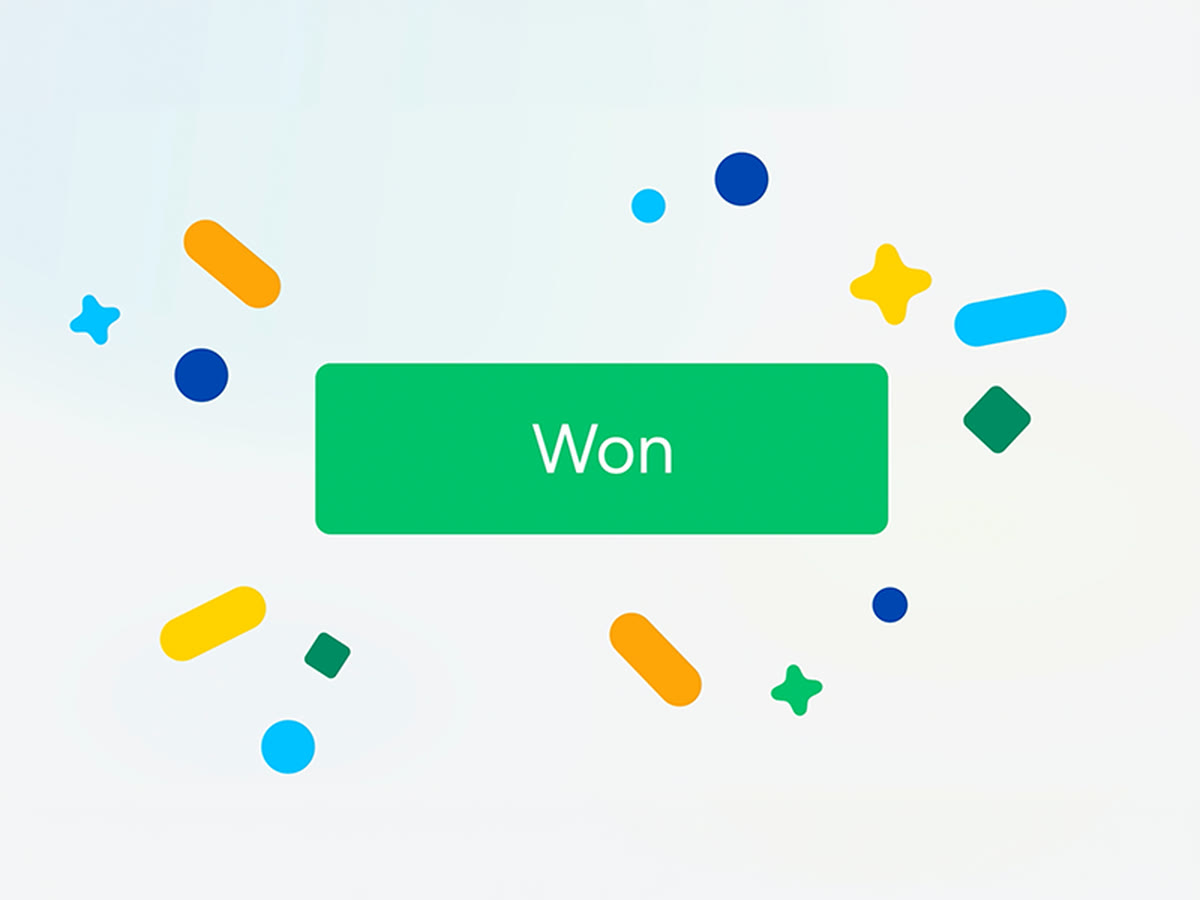
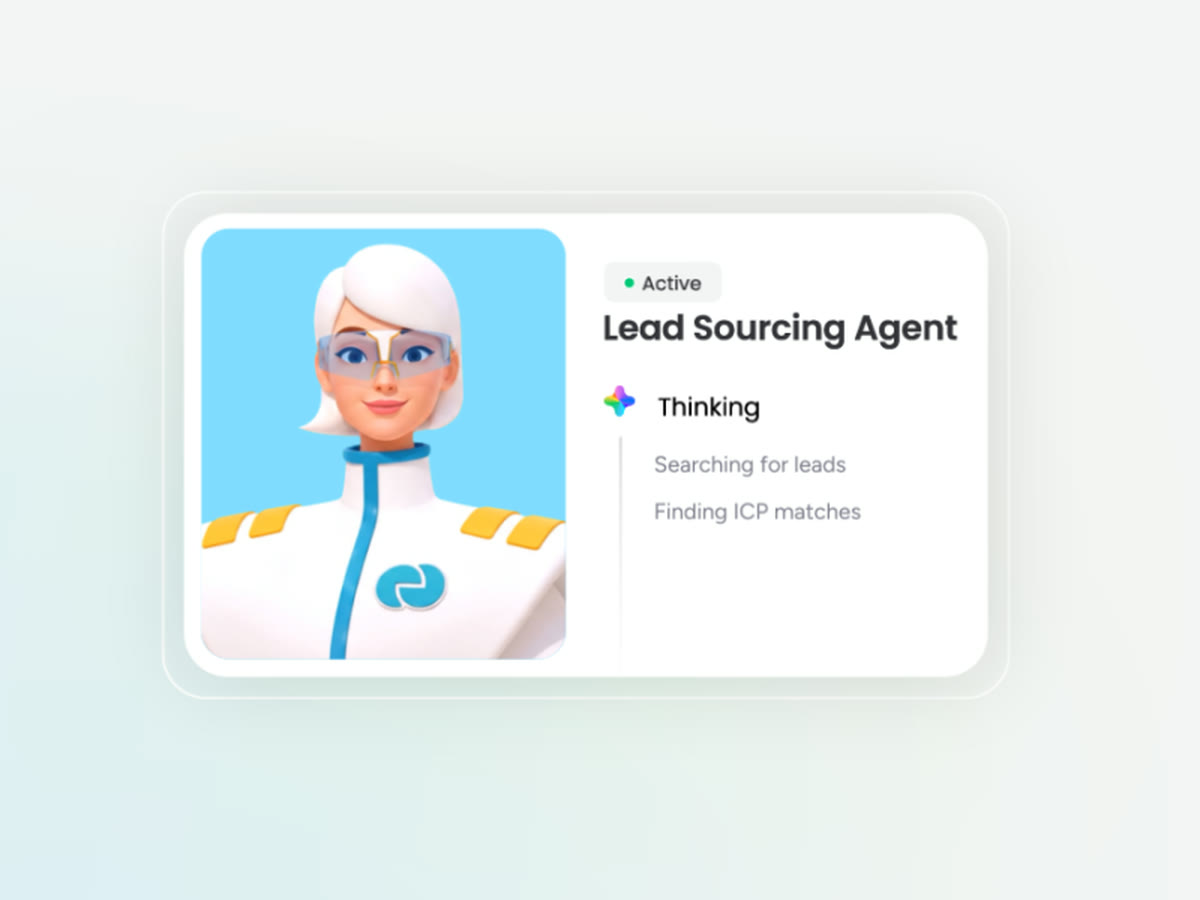
Tiles: CRM Agents ← Lead Sourcing Agent card; CRM demo ← monday CRM portraits

diff --git a/contact.html b/contact.html
@@ -9,7 +9,7 @@
   <link rel="preconnect" href="https://fonts.googleapis.com">
   <link rel="preconnect" href="https://fonts.gstatic.com" crossorigin>
   <link href="https://fonts.googleapis.com/css2?family=Source+Serif+4:ital,opsz,wght@0,8..60,300..700;1,8..60,300..700&family=DM+Mono:ital,wght@0,400;0,500;1,400&display=swap" rel="stylesheet">
-  <link rel="stylesheet" href="css/style.css?v=20260923113753">
+  <link rel="stylesheet" href="css/style.css?v=20260923114634">
 </head>
 <body data-page="contact">
 
@@ -59,8 +59,8 @@
 
   <footer class="wrap site-footer" id="site-footer"></footer>
 
-  <script src="js/projects.js?v=20260923113753"></script>
-  <script src="js/main.js?v=20260923113753"></script>
-  <script src="js/fx.js?v=20260923113753"></script>
+  <script src="js/projects.js?v=20260923114634"></script>
+  <script src="js/main.js?v=20260923114634"></script>
+  <script src="js/fx.js?v=20260923114634"></script>
 </body>
 </html>

diff --git a/project.html b/project.html
@@ -8,7 +8,7 @@
   <link rel="preconnect" href="https://fonts.googleapis.com">
   <link rel="preconnect" href="https://fonts.gstatic.com" crossorigin>
   <link href="https://fonts.googleapis.com/css2?family=Source+Serif+4:ital,opsz,wght@0,8..60,300..700;1,8..60,300..700&family=DM+Mono:ital,wght@0,400;0,500;1,400&display=swap" rel="stylesheet">
-  <link rel="stylesheet" href="css/style.css?v=20260923113753">
+  <link rel="stylesheet" href="css/style.css?v=20260923114634">
 </head>
 <body data-page="project">
 
@@ -18,8 +18,8 @@
 
   <footer class="wrap site-footer" id="site-footer"></footer>
 
-  <script src="js/projects.js?v=20260923113753"></script>
-  <script src="js/main.js?v=20260923113753"></script>
-  <script src="js/fx.js?v=20260923113753"></script>
+  <script src="js/projects.js?v=20260923114634"></script>
+  <script src="js/main.js?v=20260923114634"></script>
+  <script src="js/fx.js?v=20260923114634"></script>
 </body>
 </html>

diff --git a/about.html b/about.html
@@ -9,7 +9,7 @@
   <link rel="preconnect" href="https://fonts.googleapis.com">
   <link rel="preconnect" href="https://fonts.gstatic.com" crossorigin>
   <link href="https://fonts.googleapis.com/css2?family=Source+Serif+4:ital,opsz,wght@0,8..60,300..700;1,8..60,300..700&family=DM+Mono:ital,wght@0,400;0,500;1,400&display=swap" rel="stylesheet">
-  <link rel="stylesheet" href="css/style.css?v=20260923113753">
+  <link rel="stylesheet" href="css/style.css?v=20260923114634">
 </head>
 <body data-page="about">
 
@@ -38,8 +38,8 @@
 
   <footer class="wrap site-footer" id="site-footer"></footer>
 
-  <script src="js/projects.js?v=20260923113753"></script>
-  <script src="js/main.js?v=20260923113753"></script>
-  <script src="js/fx.js?v=20260923113753"></script>
+  <script src="js/projects.js?v=20260923114634"></script>
+  <script src="js/main.js?v=20260923114634"></script>
+  <script src="js/fx.js?v=20260923114634"></script>
 </body>
 </html>

diff --git a/index.html b/index.html
@@ -9,7 +9,7 @@
   <link rel="preconnect" href="https://fonts.googleapis.com">
   <link rel="preconnect" href="https://fonts.gstatic.com" crossorigin>
   <link href="https://fonts.googleapis.com/css2?family=Source+Serif+4:ital,opsz,wght@0,8..60,300..700;1,8..60,300..700&family=DM+Mono:ital,wght@0,400;0,500;1,400&display=swap" rel="stylesheet">
-  <link rel="stylesheet" href="css/style.css?v=20260923113753">
+  <link rel="stylesheet" href="css/style.css?v=20260923114634">
 </head>
 <body data-page="home">
 
@@ -26,8 +26,8 @@
 
   <footer class="wrap site-footer" id="site-footer"></footer>
 
-  <script src="js/projects.js?v=20260923113753"></script>
-  <script src="js/main.js?v=20260923113753"></script>
-  <script src="js/fx.js?v=20260923113753"></script>
+  <script src="js/projects.js?v=20260923114634"></script>
+  <script src="js/main.js?v=20260923114634"></script>
+  <script src="js/fx.js?v=20260923114634"></script>
 </body>
 </html>
